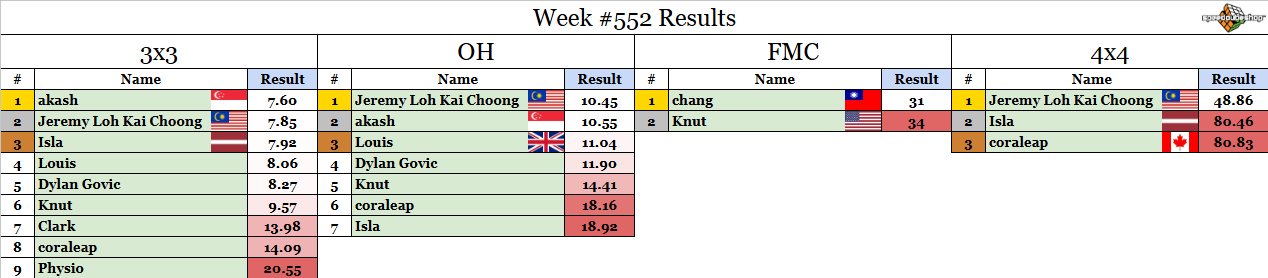
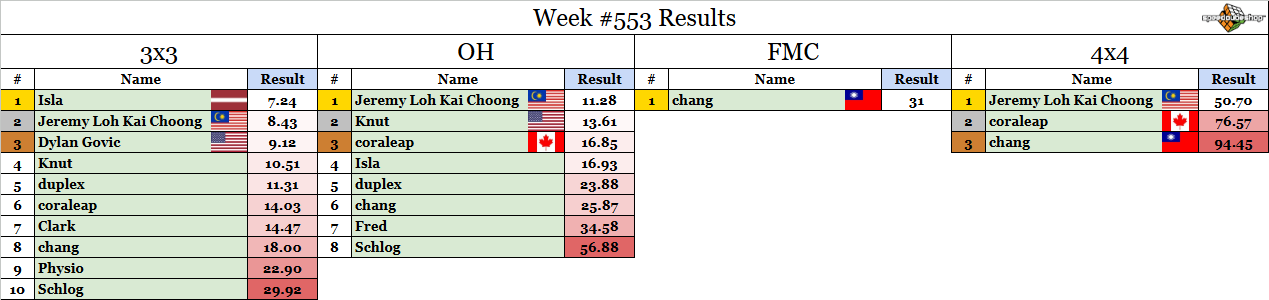
weekly comp update

Changed region(s): [[0.0, 0.0, 1.0, 1.0]]

diff --git a/src/weeklycomp/post.md b/src/weeklycomp/post.md
@@ -1,9 +1,9 @@
-## Weekly Competition #553 
+## Weekly Competition #554 
  
  This weekly competition is proudly sponsored by SpeedCubeShop.com 
  One competitor will be selected at random to receive a $5 SCS gift card! 
  
- Congrats to last week's winner by a random draw: **Physio**. DM me for the prize. 
+ Congrats to last week's winner by a random draw: **Schlog**. DM me for the prize. 
  
  Check whether or not you participated this week yet at [https://bit.ly/RMSWeeklyCompSummary](https://bit.ly/RMSWeeklyCompSummary)  
  
@@ -17,29 +17,28 @@
  7. The comp runs until Sunday 5pm Eastern time (more or less). Enter your times using the forms links below. 
  
 ### 3x3: [Submission Form](https://forms.gle/H5xoCWvGKnZ92fQt8) 
- 1. L' B' D2 F' U2 B' D2 F L2 B' D2 F D' B' F' L2 U' L B' R' B' 
- 2. L2 B U2 F L2 R2 B L2 F' D2 F2 U F2 D' B L U' B R' U' 
- 3. F' L2 B' U2 L2 D2 U2 F R2 D2 F U2 L' F' D' F' U R' D2 L F 
- 4. D' L2 R2 U' B2 L2 D U' L2 F2 D2 F' L' U' B' L' D B2 L2 U2 
- 5. F D L2 U R2 F2 R' D' L2 F' U2 B2 L2 F2 L2 D2 R2 U 
+ 1. D' U2 F2 R2 D2 F2 L' D2 R2 D' F' R' F' U2 R2 F D2 
+ 2. L2 B D2 F U2 B2 D2 B R2 F' D2 F R' D L F R' D' U2 L' B 
+ 3. R2 B U2 L B' L U L F2 R2 D' B2 U' F2 L2 U2 D R2 L 
+ 4. L2 B D2 B' D2 B U2 R2 B' R2 F2 R' U L D' L2 B2 F R B U 
+ 5. B' L2 D2 F' R L U2 D L' D2 F' U2 R2 U2 L2 B D2 B R2 B' U2 
  
 ### OH: [Submission Form](https://forms.gle/UgRLW3K1d5KkMGfM9) 
- 1. D' B L B R' B R' U2 F' L2 D B2 L2 D2 R2 U2 D' L2 U' F2 L2 
- 2. B2 F2 U' F2 L2 D2 R2 F2 U2 R D2 U2 B F2 D B2 F' L B2 
- 3. B' U2 B' D2 F2 U2 F D2 F' L2 R2 F2 R D' B U' B F L U2 R' 
- 4. R' B2 R' F2 D B2 D U2 R2 B2 D' L2 B2 L2 B U2 L' F' D B' R 
- 5. B2 L' D' L' D' R' F' R' U' L D2 L2 F2 B2 D2 F2 L D2 F2 R 
+ 1. L2 U2 L D2 L' F2 R' D2 R' B2 D2 L2 B D R' F2 U' B' U B F 
+ 2. U' D' B R2 L' U' F' L2 U F2 D2 L2 U2 L2 F L2 U2 B' D2 R2 
+ 3. B2 D2 U2 F' U2 F' R2 D2 F' L' B' F U L B' U2 L F2 
+ 4. U' R2 B2 U2 B2 U' L2 D F2 R2 D L2 F D' U' L2 B R' U L' R2 
+ 5. D2 L' B' U R2 D2 R B2 U R2 L2 U2 F2 R2 D2 B L2 U2 B L2 
  
 ### FMC: [Submission Form](https://forms.gle/1P9VUgZmA1pibwvL9) 
- 1. R' U' F D' B F D2 U2 L2 B' L2 R2 B' F2 L2 R2 U' F' L U2 B D U' L' R' U' F 
+ 1. R' U' F L F2 L2 D' R2 D' F2 D' B2 U' F2 U R' U R' U B' U2 L' D2 R' U' F 
  
 ### 4x4: [Submission Form](https://forms.gle/bHNjncvEcPvFWBP2A) 
- 1. L F' U L D2 F2 L2 F2 R U2 R' B2 U D2 B2 R U L2 B U' Uw2 F2 Rw2 D Uw2 R B2 D R2 F2 Uw2 Fw2 U' F' Fw' R L2 Rw Uw2 F' Uw F' Uw B2 Fw 
- 2. U2 L F R2 B L2 B L2 D2 R2 L2 F D2 B D' R U D2 L2 F U2 Rw2 F L2 U' R2 Rw2 F2 U Uw2 B' Fw2 U' D2 Rw Fw2 Rw Fw2 U2 F' Rw Fw U' L' U2 R' 
- 3. F2 L2 D R2 F2 U2 R2 U' R2 U2 R2 F U2 D L' B' U' B2 R' D' F Rw2 U F Rw2 U' B R2 F' U Uw2 Fw2 D R B' D R Rw' B2 Uw Rw2 Fw Rw' D Uw F 
- 4. D' R' D F2 L2 B2 U' D2 R2 D B2 U' F2 L2 F' R2 D' R D' R D2 Uw2 B' D Fw2 D Uw2 B Rw2 Fw2 R2 F' B' U' Rw' Fw2 Rw' B2 U' Rw2 D' Uw' B2 Uw B2 R' 
- 5. U2 B' D2 F2 L U' F2 L' F L2 F2 B' L2 B L2 U2 L2 F2 U' Rw2 Fw2 U R2 F' U' B Rw2 U2 F' Rw2 U' B' Rw Fw2 Rw' D' Fw' U2 R' Fw' Rw2 Uw Rw 
+ 1. U2 D' F2 R B D2 L F2 D' F2 L2 D B2 R2 B2 U D2 F' R Uw2 Rw2 F' Fw2 Uw2 F D2 F2 D Rw2 F D' R U2 Rw F' L U Fw2 Uw' R F L2 Uw B2 
+ 2. U2 F2 D2 B2 R2 F R2 D2 F R L2 B L2 D2 L U F' B' Uw2 Fw2 R Fw2 D' L' F2 R2 D Uw2 Rw2 F D L2 Fw' U' Uw' R B Uw Fw D R B 
+ 3. D F' B' R' L' B2 U B U2 B2 L' U2 B2 L' D2 B2 L D2 R2 Rw2 Uw2 R' D Fw2 U2 L Uw2 R2 F2 R U' L' Fw R2 U' F2 D2 Uw Rw2 Uw2 F Fw' U' Uw' F2 
+ 4. F' U2 D F2 D2 B2 R2 U2 F2 U' B2 L' D' B2 R' L2 F2 U2 B' D2 Fw2 Uw2 L' U D2 Fw2 Uw2 L' Rw2 U Uw2 R' Fw' R2 Fw' L F' L Uw B Rw2 Fw' D Uw' B 
+ 5. F2 D' R2 L2 D B2 R2 D' L2 F D' F2 D B R' F2 B' L' Uw2 Fw2 D B2 Rw2 Fw2 R' B2 L U2 Fw2 L' Fw' Rw2 B2 L F' R' Fw L2 Uw Rw' F2 R Rw2 
  
 ### Winning FMC solutions from last week: 
- 1. chang, 31 moves: [SOLUTION](https://bit.ly/3KF1X58) 
- 2. Knut, 34 moves: [SOLUTION](https://bit.ly/4q1Ggfz)
+ 1. chang, 31 moves: [SOLUTION](https://bit.ly/43hMoXm)
